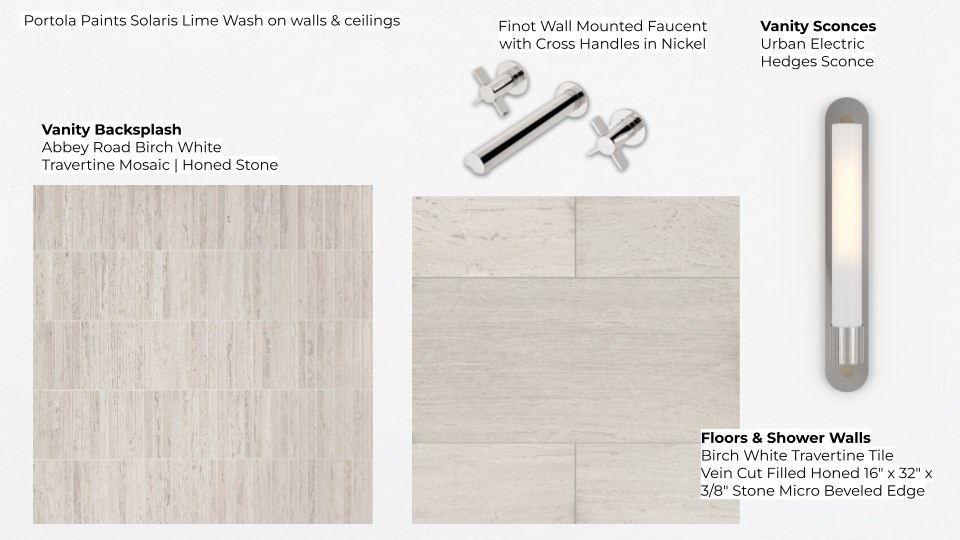
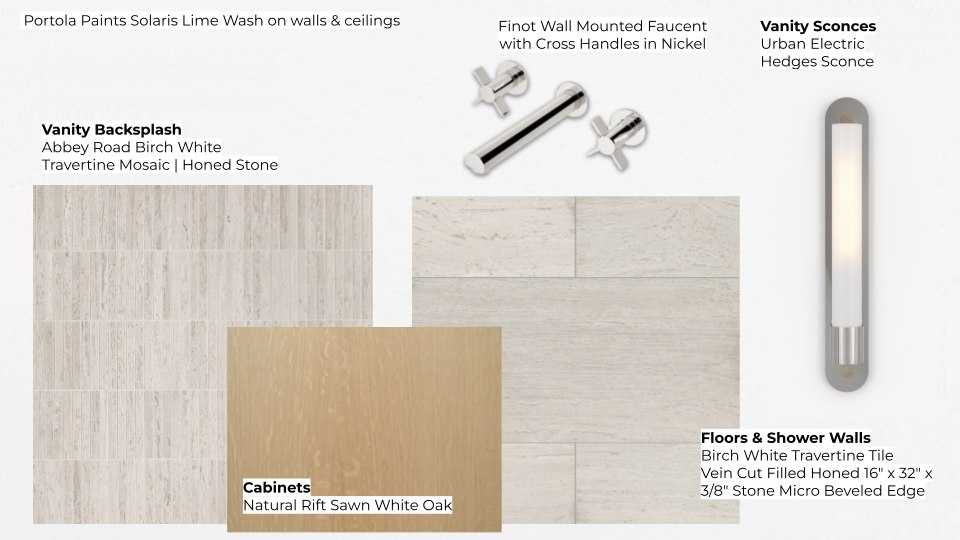
Swap in updated primary bath render + mood board

Changed region(s): [[0.2188, 0.5926, 0.5312, 1.0]]

diff --git a/index.html b/index.html
@@ -460,9 +460,9 @@ window.addEventListener("DOMContentLoaded",function(){
     </div>
 
     <div class="hero-image" style="margin-top: 3rem;">
-      <img src="images/primary-bath-lead.jpg" width="1536" height="1024" alt="Primary bath — vein-cut travertine walls, freestanding oval tub, white oak floating vanity, glass wet room" loading="lazy" decoding="async">
+      <img src="images/primary-bath-lead.jpg" width="1595" height="986" alt="Primary bath — floating white oak double vanity with travertine trough sinks, Birch White travertine mosaic wall, backlit mirror, nickel fittings" loading="lazy" decoding="async">
     </div>
-    <p class="image-caption" style="color:#A39B8C;">The primary bath &mdash; vein-cut travertine, a sculpted tub, and white oak warmth.</p>
+    <p class="image-caption" style="color:#A39B8C;">The primary bath &mdash; Birch White travertine, a floating oak double vanity, and light from beneath.</p>
 
     <div class="grid-2" style="margin-top: 2.5rem; max-width: 980px; margin-left:auto; margin-right:auto;">
       <div class="cell cell--fit"><img src="images/primary-bath-axo.jpg" width="1292" height="1141" alt="The primary bath in plan — twin showers, freestanding tub, water closet, double vanity, and a private deck" loading="lazy" decoding="async"></div>